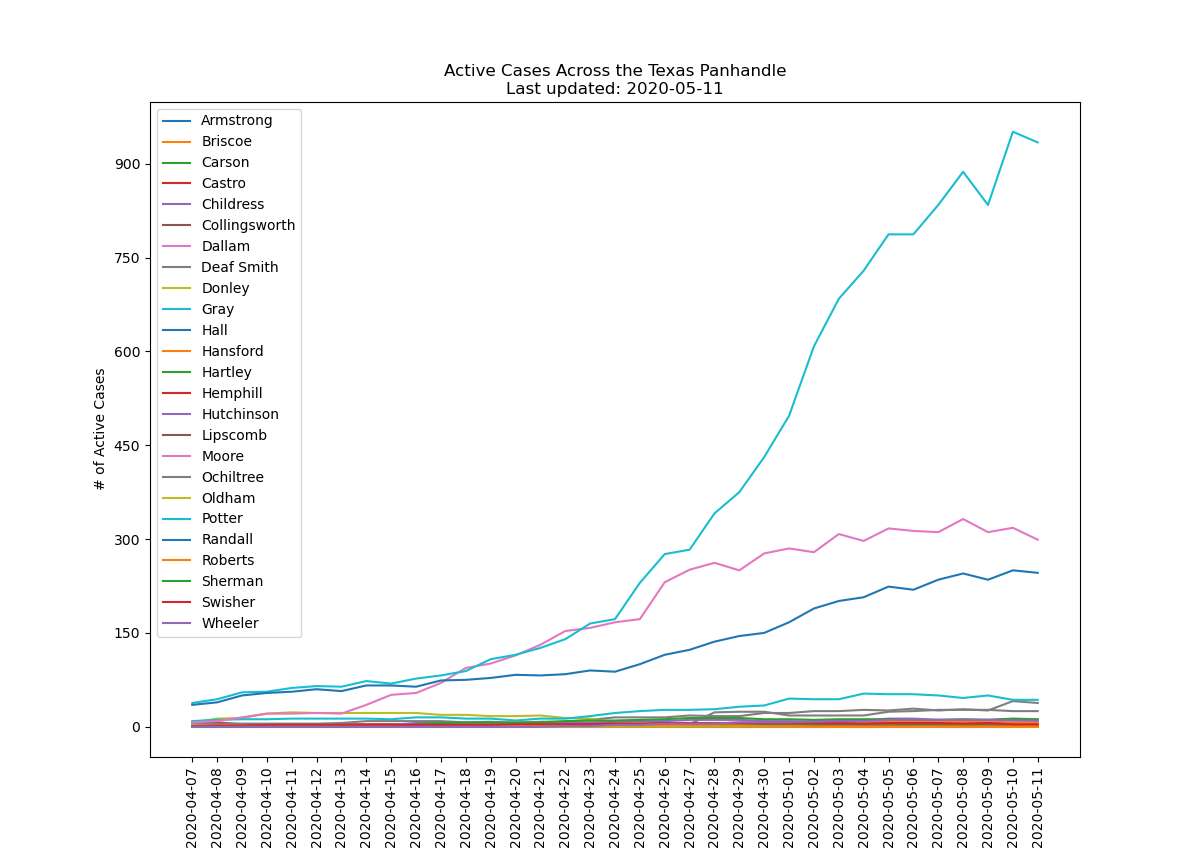
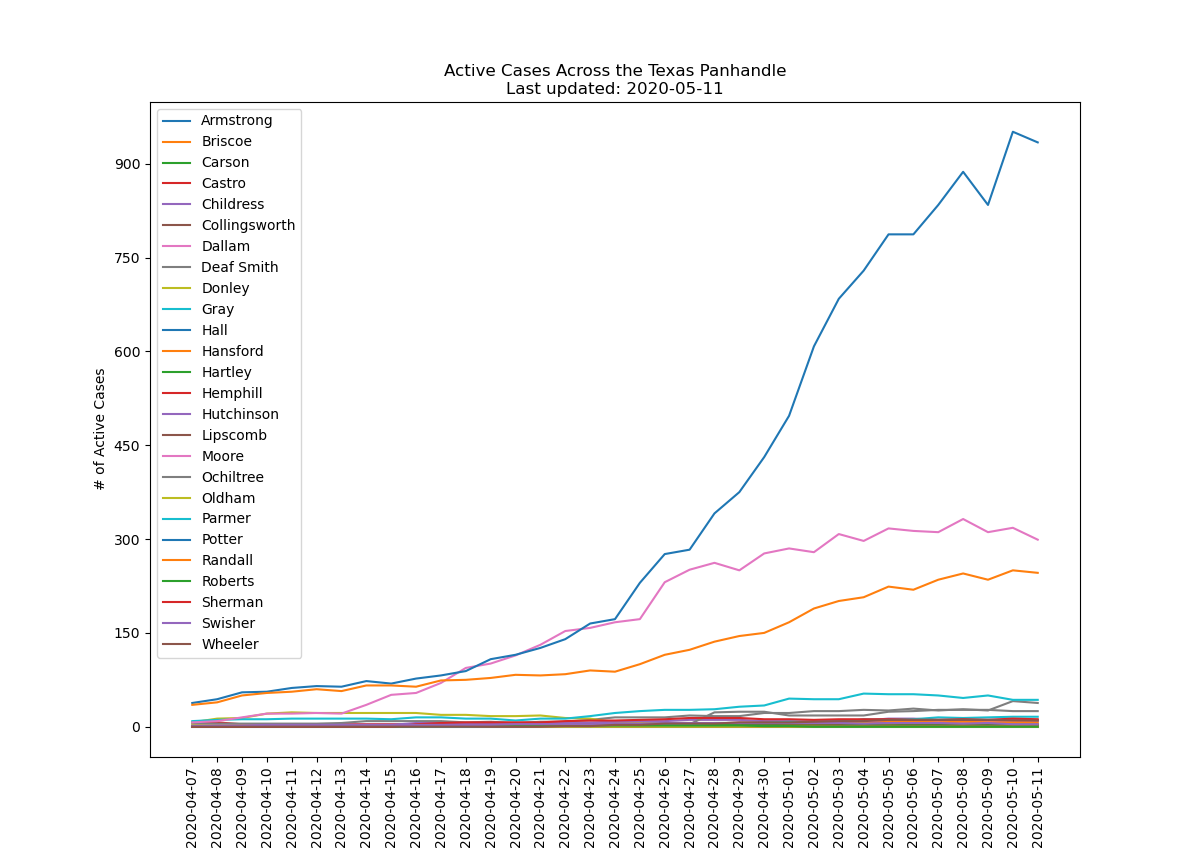
Corrected typo
Parmer instead of Palmer

diff --git a/src_dshs/graph.py b/src_dshs/graph.py
@@ -40,7 +40,7 @@ def main():
 	for d_obj in df_list:
 		counties = ['Armstrong', 'Briscoe', 'Carson', 'Castro', 'Childress', 'Collingsworth', 'Dallam',
 					'Deaf Smith', 'Donley', 'Gray', 'Hall', 'Hansford', 'Hartley', 'Hemphill','Hutchinson',
-					'Lipscomb', 'Moore', 'Ochiltree', 'Oldham', 'Palmer', 'Potter', 'Randall', 'Roberts',
+					'Lipscomb', 'Moore', 'Ochiltree', 'Oldham', 'Parmer', 'Potter', 'Randall', 'Roberts',
 					'Sherman', 'Swisher', 'Wheeler']
 
 		m = plt.figure(d_obj.figure, figsize=(12.0, 8.5))
@@ -70,7 +70,7 @@ def main():
 
 	counties = ['Armstrong', 'Briscoe', 'Carson', 'Castro', 'Childress', 'Collingsworth', 'Dallam',
 				'Deaf Smith', 'Donley', 'Gray', 'Hall', 'Hansford', 'Hartley', 'Hemphill','Hutchinson',
-				'Lipscomb', 'Moore', 'Ochiltree', 'Oldham', 'Palmer', 'Potter', 'Randall', 'Roberts',
+				'Lipscomb', 'Moore', 'Ochiltree', 'Oldham', 'Parmer', 'Potter', 'Randall', 'Roberts',
 				'Sherman', 'Swisher', 'Wheeler']
 	
 	# Plot individual counties Actives
@@ -134,6 +134,7 @@ def main():
 			print("County not found: " + county)
 
 	# TODO(David): Aggregate Randall and Potter County.
+	# TODO(David): Graph rate of inc/dec of cases per day
 	# TODO(David): 
 
 if __name__ == '__main__':

diff --git a/src_dshs/panhandle.py b/src_dshs/panhandle.py
@@ -5,7 +5,7 @@ from Find import Find
 def main():
 	counties = ['Armstrong', 'Briscoe', 'Carson', 'Castro', 'Childress', 'Collingsworth', 'Dallam',
 				'Deaf Smith', 'Donley', 'Gray', 'Hall', 'Hansford', 'Hartley', 'Hemphill','Hutchinson',
-				'Lipscomb', 'Moore', 'Ochiltree', 'Oldham', 'Palmer', 'Potter', 'Randall', 'Roberts',
+				'Lipscomb', 'Moore', 'Ochiltree', 'Oldham', 'Parmer', 'Potter', 'Randall', 'Roberts',
 				'Sherman', 'Swisher', 'Wheeler']
 
 	if platform == "win32":
